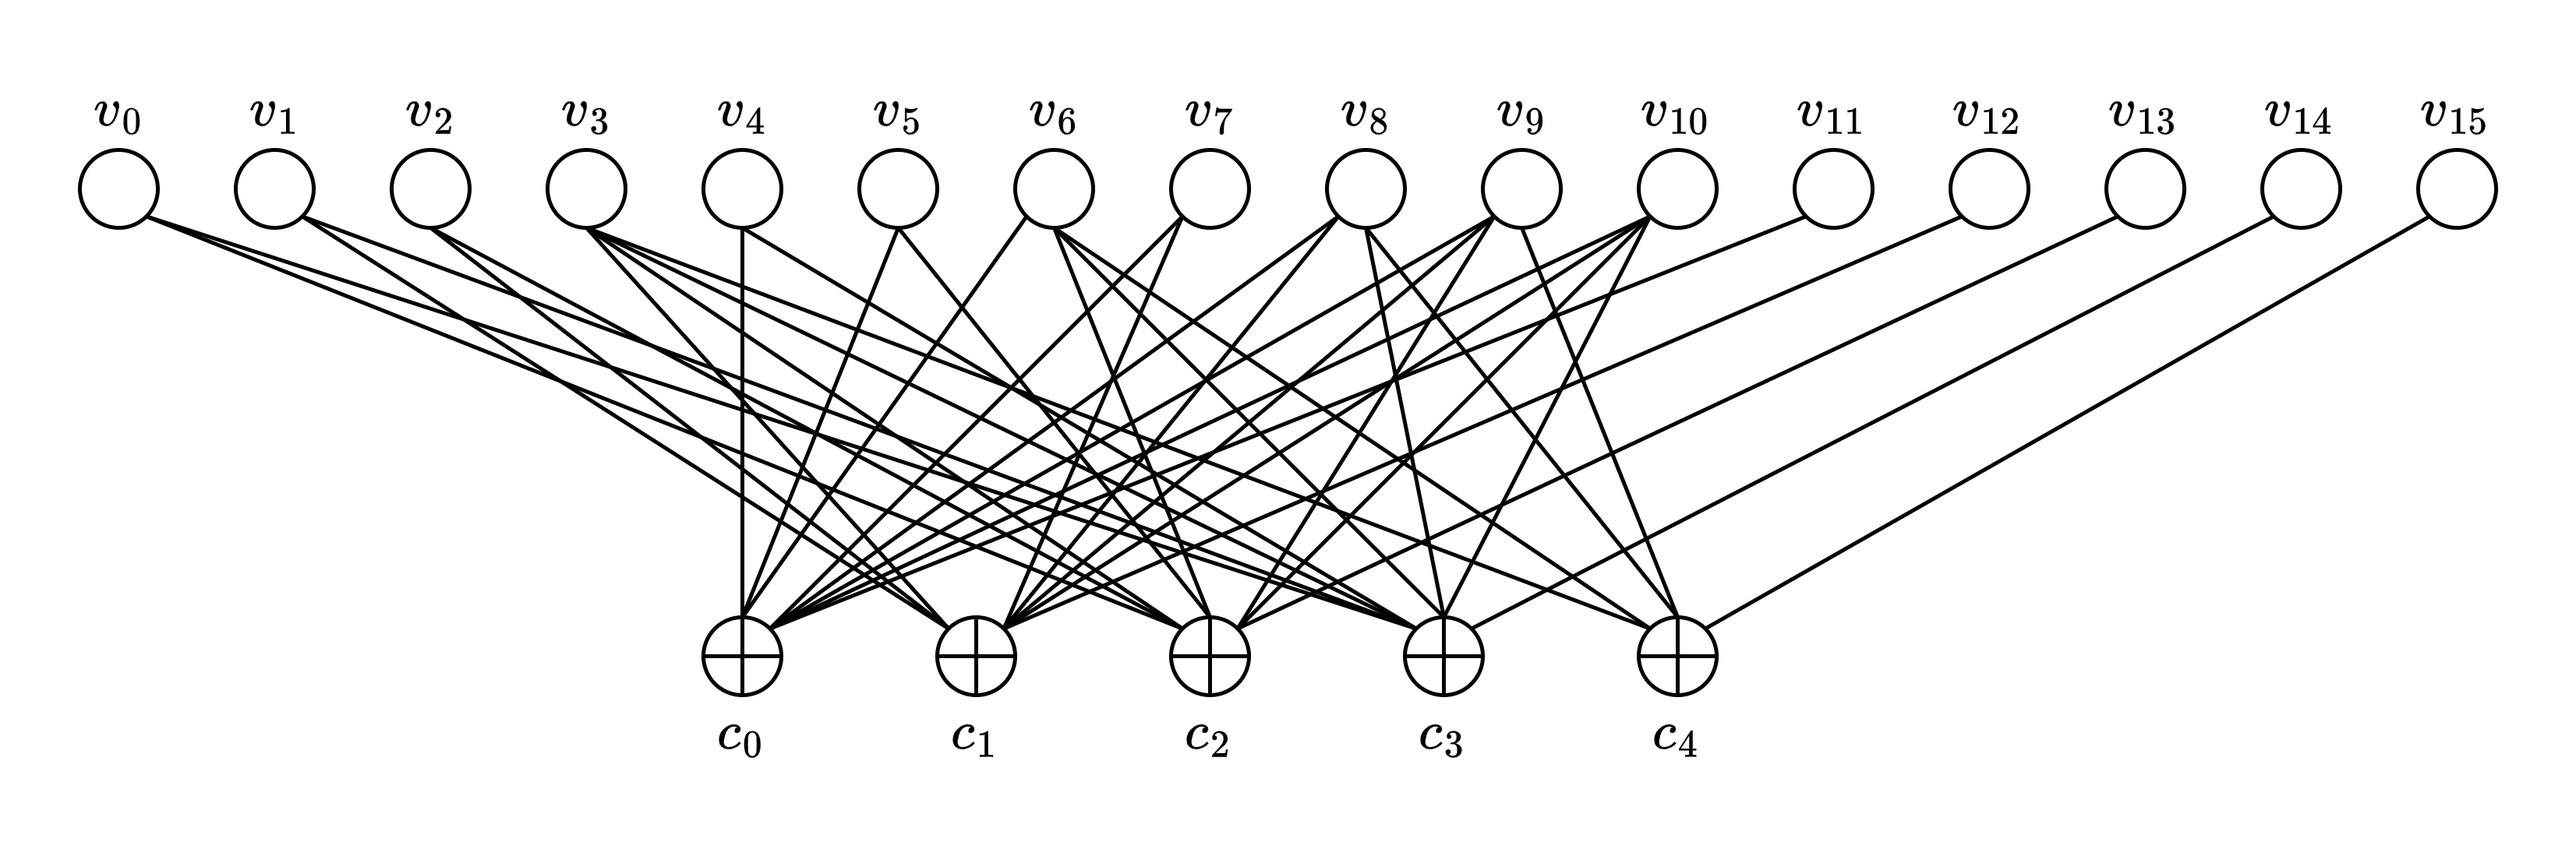
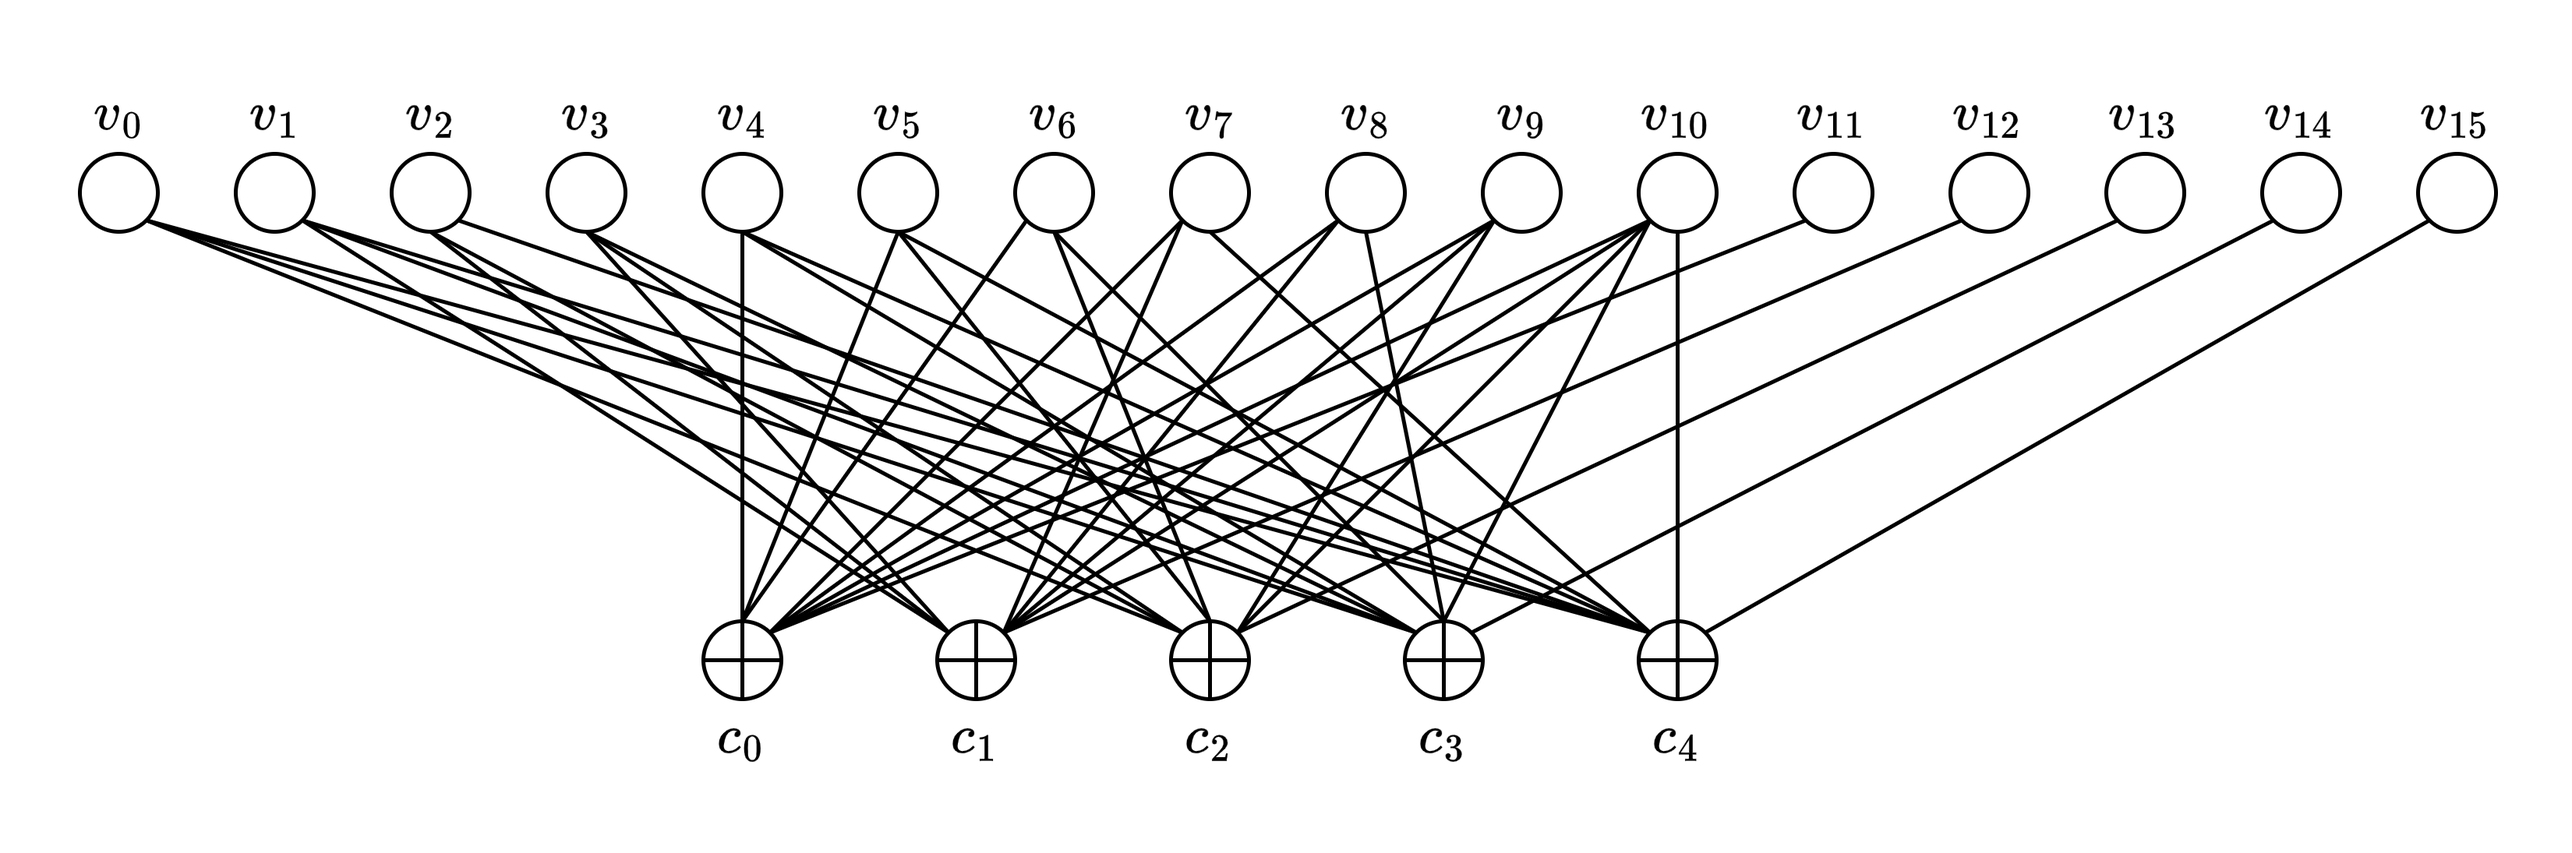
Updating tanner graph

diff --git a/Final/Final_Sowatzke.tex b/Final/Final_Sowatzke.tex
@@ -314,17 +314,17 @@
 			
 			\begin{equation*}
 				\mathbf{P} = \begin{bmatrix}
-					0 & 0 & 1 & 1 & 0 \\
-					0 & 1 & 0 & 1 & 0 \\
-					0 & 1 & 1 & 0 & 0 \\
-					0 & 1 & 1 & 1 & 1 \\
-					1 & 0 & 0 & 1 & 0 \\
-					1 & 0 & 1 & 0 & 0 \\
-					1 & 0 & 1 & 1 & 1 \\
-					1 & 1 & 0 & 0 & 0 \\
-					1 & 1 & 0 & 1 & 1 \\
-					1 & 1 & 1 & 0 & 1 \\
-					1 & 1 & 1 & 1 & 0
+					0 & 0 & 1 & 1 & 1 \\
+					0 & 1 & 0 & 1 & 1 \\
+					0 & 1 & 1 & 0 & 1 \\
+					0 & 1 & 1 & 1 & 0 \\
+					1 & 0 & 0 & 1 & 1 \\
+					1 & 0 & 1 & 0 & 1 \\
+					1 & 0 & 1 & 1 & 0 \\
+					1 & 1 & 0 & 0 & 1 \\
+					1 & 1 & 0 & 1 & 0 \\
+					1 & 1 & 1 & 0 & 0 \\
+					1 & 1 & 1 & 1 & 1
 				\end{bmatrix}
 			\end{equation*}
 			
@@ -336,7 +336,7 @@
 					0 & 1 & 1 & 1 & 0 & 0 & 0 & 1 & 1 & 1 & 1 & 0 & 1 & 0 & 0 & 0\\
 					1 & 0 & 1 & 1 & 0 & 1 & 1 & 0 & 0 & 1 & 1 & 0 & 0 & 1 & 0 & 0\\
 					1 & 1 & 0 & 1 & 1 & 0 & 1 & 0 & 1 & 0 & 1 & 0 & 0 & 0 & 1 & 0\\
-					0 & 0 & 0 & 1 & 0 & 0 & 1 & 0 & 1 & 1 & 0 & 0 & 0 & 0 & 0 & 1
+					1 & 1 & 1 & 0 & 1 & 1 & 0 & 1 & 0 & 0 & 1 & 0 & 0 & 0 & 0 & 1
 				\end{bmatrix}
 			\end{equation*}
 				
@@ -347,6 +347,44 @@
 			\end{figure}
 
 			\item Determine the code parameters of the extended code in (c): codeword length, number of information bits, code rate, overhead, minimum distance, error correction capability, and error detection capability.
+			
+			$\Rightarrow n = 15,\ k = 11$
+						
+			Codeword length: $n + 1 = 16\ \text{bits}$
+			
+			Number of information bits: $k = 11\ \text{bits}$
+			
+			Code rate: $R = k/(n+1) = 11/16$
+			
+			Overhead: $n - k = 5\ \text{bits}$
+			
+			The minimum distance of a linear block code is defined by the minimum number of columns of the $\mathbf{H}$-matrix whose sum is equal to the zero vector:
+			
+			Minimum distance: $d_\text{min} = 7$
+			
+			Error correction capability and error detection capability are related to the minimum distance by
+			
+			\begin{equation*}
+				d_{\text{min}} = \geq e_d + e_c + 1
+			\end{equation*}
+			
+			where $e_d$ is the number of detected errors and $e_c$ is the number of corrected errors.
+			
+			To determine error correction capability, we must set $e_d = e_c$ because we must detect the errors in all the bits we correct.
+			
+			\begin{equation*}
+				\Rightarrow d_{\text{min}} \geq 2e_c + 1 \Rightarrow 2e_c \leq d_{\text{min}} - 1 \Rightarrow e_c \leq 3
+			\end{equation*}
+			
+			$\therefore$ we can correct up to 3 bits in error.
+			
+			To determine error detection capability, we must set $e_c = 0$ because we are only responsible for detecting errors.
+			
+			\begin{equation*}
+				\Rightarrow d_{\text{min}} \geq e_d + 1 \Rightarrow e_d \leq d_{\text{min}} - 1 \Rightarrow e_d \leq 6
+			\end{equation*}
+			
+			$\therefore$ we can detect up to 6 bits in error.
 		\end{enumerate}
 		
 		\item This problem is related to the \textbf{adaptive modulation and coding applied to 9-ary 2-D constellation} described below, transmitted over wireless channel in the presence of Nakagami fading and AWGN. The eight constellation points in this 2-D constellation are placed on a circle of radius 1. The last (ninth) point is placed in the origin. Assume that the point in the origin appears with probability 0.5, all others with probability 0.5/8. For channel coding use the extended code from Problem 2(c).
